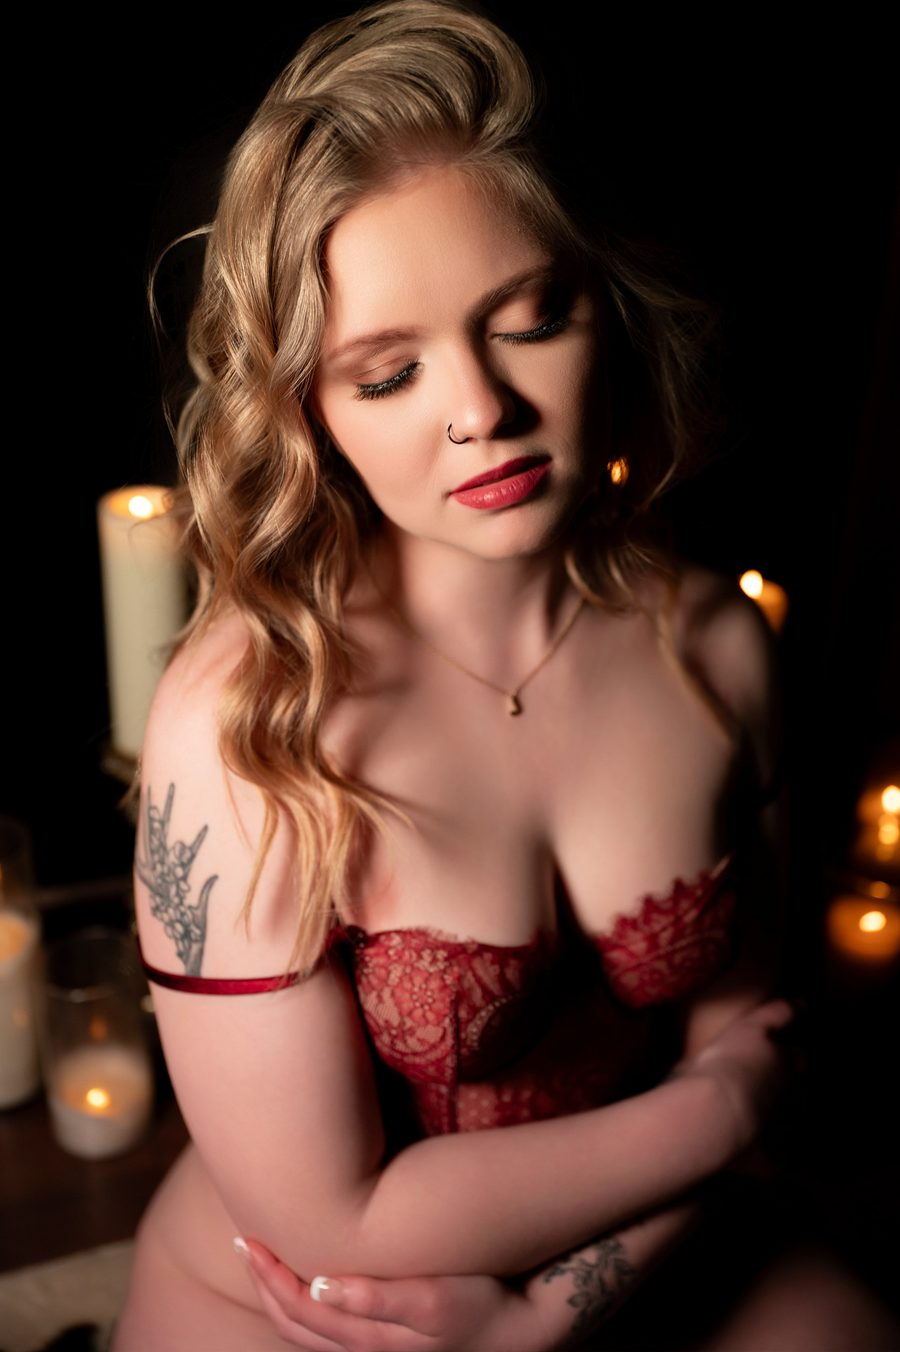
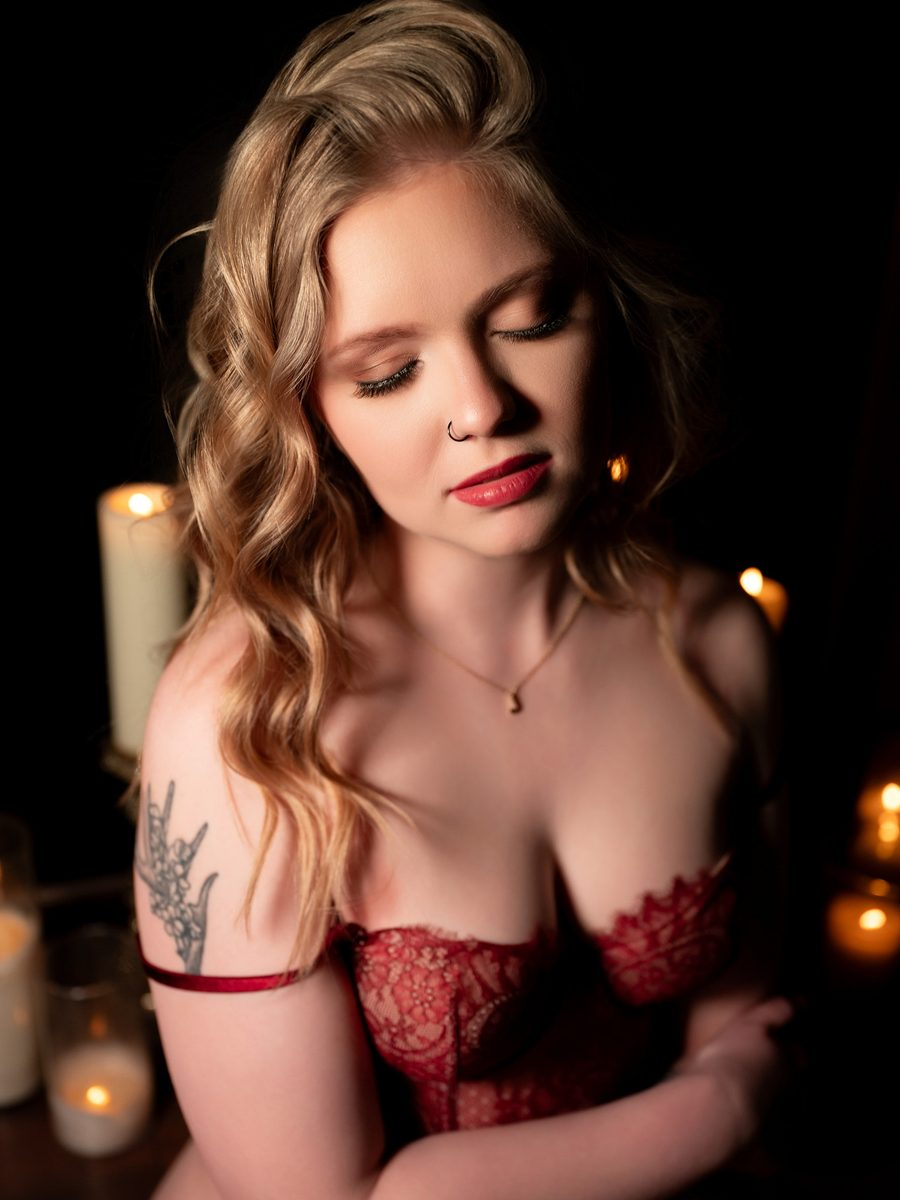
Match sizes, and rework two lines of copy
Five changes from Jessica.

Before/after now share a shape: both cropped to 3:4 at 900x1200. This
is the one place on the page where cropping is correct -- a before and
an after only read as a comparison when the frames match, and different
shapes make the eye compare the boxes instead of the woman.

Review cards are equal height. The quote area stretches to the longest
of the three rather than each card ending where its text does.

Hero headline holds two lines. Type sized so "Central Missouri's
Premier" does not wrap on its own, with the break before "Boudoir
Studio".

"Howdy, I'm Jess" becomes "Hello, I'm Jessica". The About page wording
is warm but reads folksy against Cormorant Garamond and antique gold.
Kit offers the more editorial alternate: the name alone as the heading,
with the eyebrow doing the introducing.

New empowering line: "There is a version of you that you have never
been shown. She has been there the whole time." The old one listed what
the reader is not -- not fifteen pounds from now, not once everything
settles down -- which argues with her. This offers her something
instead, and it sits better in a serif at size.

Claude-Session: https://claude.ai/code/session_01WUSgWYuPdNHtkfGKppnMt9

diff --git a/showit-revamp-kit.html b/showit-revamp-kit.html
@@ -309,7 +309,7 @@ Book a Call</div>
         <div class="paste">
           <div class="ph"><span class="loc">intro<span class="arrow">→</span>headline</span><button class="btn" type="button">Copy</button></div>
           <div class="pb"><span class="hd">Central Missouri&rsquo;s Premier Boudoir Studio</span></div>
-          <p class="note">Sits on the photo, bottom-left, over a scrim rising from the base — not centred, because the subject is centre-left and type on a body reads as an accident.</p>
+          <p class="note">Sits on the photo, bottom-left, over a scrim rising from the base. Not centred: the subject is centre-left and type on a body reads as an accident. <b>Set it on two lines</b> — &ldquo;Central Missouri&rsquo;s Premier&rdquo; over &ldquo;Boudoir Studio&rdquo; — with the type sized so neither line wraps on its own.</p>
         </div>
 
         <div class="paste">
@@ -335,8 +335,8 @@ DSC_0475-BW.jpg</div>
 
         <div class="paste">
           <div class="ph"><span class="loc">imagery<span class="arrow">→</span>the line</span><button class="btn" type="button">Copy</button></div>
-          <div class="pb">You are allowed to be seen exactly as you are today. Not fifteen pounds from now. Not once everything settles down.</div>
-          <p class="note">One sentence, centred under the photos, set large in Cormorant. Two alternates if this one isn’t yours: <em>&ldquo;You have spent years being the one holding the camera.&rdquo;</em> · <em>&ldquo;Nobody is coming to tell you you’ve earned this. Consider this the permission slip.&rdquo;</em></p>
+          <div class="pb">There is a version of you that you have never been shown. She has been there the whole time.</div>
+          <p class="note">Set large in Cormorant, centred under the photographs. The previous draft listed what you are not (&ldquo;not fifteen pounds from now&rdquo;), which argues with the reader. This one offers her something instead, and it suits the palette. <b>Two alternates:</b> <em>&ldquo;You have spent years on the other side of the camera. This time, stand in front of it.&rdquo;</em> · <em>&ldquo;Beautiful is not something you earn. It is something you have been carrying.&rdquo;</em></p>
         </div>
 
         <h3>4 &middot; Jess &middot; block <code>welcome</code></h3>
@@ -353,8 +353,8 @@ DSC_0475-BW.jpg</div>
 
         <div class="paste">
           <div class="ph"><span class="loc">welcome<span class="arrow">→</span>heading</span><button class="btn" type="button">Copy</button></div>
-          <div class="pb"><span class="hd">Howdy, I&rsquo;m Jess</span></div>
-          <p class="note">Straight off your About page. It is already the best line on your site — don’t improve it.</p>
+          <div class="pb"><span class="hd">Hello, I&rsquo;m Jessica</span></div>
+          <p class="note">Your About page says &ldquo;Howdy, I&rsquo;m Jess!&rdquo;, which is warm but reads folksy against Cormorant Garamond and antique gold. The full name is the more elegant register. <b>A more editorial alternate:</b> drop the greeting and set <em>Jessica Haslag</em> alone as the heading, with the eyebrow doing the introducing. Name-as-headline is a luxury convention and it would suit this palette.</p>
         </div>
 
         <div class="paste">
@@ -388,7 +388,7 @@ DSC_0475-BW.jpg</div>
         <div class="paste">
           <div class="ph"><span class="loc">before-and-after<span class="arrow">→</span>mission copy</span><button class="btn" type="button">Copy</button></div>
           <div class="pb">Nearly everyone arrives certain they aren&rsquo;t photogenic. Our mission is to hand you the evidence that you always were. Hair and makeup, a professionally guided session, and a one-on-one reveal where the two of us sit down and go through every image together.</div>
-          <p class="note">Carries the mission without needing a separate block, and earns it off the images either side. Your Briana and Taylor pairs go directly underneath.</p>
+          <p class="note">Carries the mission without needing a separate block, and earns it off the images either side. <b>Crop the pair to one shared shape</b> — 3:4 for both. This is the one place cropping is right: a before and after only reads as a comparison when the two frames match, and different shapes make the eye compare the boxes instead of the woman.</p>
         </div>
 
         <h3>6 &middot; Three Google reviews &middot; new block</h3>
@@ -429,7 +429,7 @@ DSC_0630-BW.jpg</div>
           <div class="pb">Miss ___.
 Miss ___.
 Miss ___.</div>
-          <p class="note"><b>The one thing still missing.</b> Tell me the first initial for each and I will fill them in. Initial only, never the full name Google shows: these are boudoir clients, and their reviews are public under their real names whether they thought about that or not.</p>
+          <p class="note">Set the three cards to <b>equal height</b>, with the photograph fixed at the top and the quote area stretching to match the longest. The quotes differ in length and ragged cards read as a mistake. <b>Still missing:</b> tell me the first initial for each and I will fill them in. Initial only, never the full name Google shows: these are boudoir clients, and their reviews are public under their real names whether they thought about that or not.</p>
         </div>
 
         <div class="paste">

diff --git a/dark-studio-identity.html b/dark-studio-identity.html
@@ -147,10 +147,12 @@
   .mk-empower{font-family:var(--serif); font-weight:400; font-size:clamp(21px,3.2vw,29px);
     line-height:1.5; color:var(--ink); max-width:26ch; margin:0 auto; text-align:center}
   .mk-empower .hi{color:var(--gold-bright)}
-  .mk-rev{display:grid; grid-template-columns:repeat(3,1fr); gap:18px; max-width:980px; margin:26px auto 0; align-items:start}
+  .mk-rev{display:grid; grid-template-columns:repeat(3,1fr); gap:18px; max-width:980px; margin:26px auto 0; align-items:stretch}
   @media (max-width:760px){ .mk-rev{grid-template-columns:1fr} }
-  .mk-rev article{background:var(--surface); border:1px solid var(--line-soft); border-radius:3px; overflow:hidden}
-  .mk-rev .rv{padding:18px 18px 20px}
+  .mk-rev article{background:var(--surface); border:1px solid var(--line-soft); border-radius:3px;
+    overflow:hidden; display:flex; flex-direction:column}
+  .mk-rev .rv{padding:18px 18px 20px; flex:1; display:flex; flex-direction:column}
+  .mk-rev .qt{flex:1}
   .mk-rev .stars{color:var(--gold); font-size:12px; letter-spacing:.24em; margin:0 0 10px}
   .mk-rev .qt{font-family:var(--serif); font-style:italic; font-size:15.5px; line-height:1.6; color:var(--muted); margin:0 0 12px}
   .mk-rev .qt.slot{font-family:var(--mono); font-style:normal; font-size:10.5px; letter-spacing:.12em;
@@ -193,9 +195,9 @@
       linear-gradient(0deg, rgba(19,16,14,.95) 0%, rgba(19,16,14,.82) 22%,
         rgba(19,16,14,.42) 48%, rgba(19,16,14,.08) 80%),
       linear-gradient(90deg, rgba(19,16,14,.55) 0%, rgba(19,16,14,.12) 45%, rgba(19,16,14,0) 70%)}
-  .mk-hero .over > *{max-width:20ch}
+  .mk-hero .over > *{max-width:none}
   .mk-hero .eb{font-family:var(--sans); font-size:9.5px; letter-spacing:.3em; text-transform:uppercase; color:var(--gold)}
-  .mk-hero .ttl{font-family:var(--serif); font-weight:500; font-size:clamp(32px,6.4vw,62px); line-height:1.03; margin:0; letter-spacing:.01em}
+  .mk-hero .ttl{font-family:var(--serif); font-weight:500; font-size:clamp(27px,5.1vw,56px); line-height:1.06; margin:0; letter-spacing:.01em; text-wrap:nowrap}
   .mk-sec{padding:48px 30px; border-bottom:1px solid var(--line-soft)}
   @media (max-width:620px){ .mk-sec{padding:34px 18px} }
   .mk-two{display:grid; grid-template-columns:1fr 1fr; gap:30px; align-items:start; max-width:880px; margin:0 auto}
@@ -215,7 +217,7 @@
     width:7px; height:1px; background:var(--gold)}
   .mk-band{background:var(--surface); padding:52px 30px; text-align:center; border-bottom:1px solid var(--line-soft)}
   .mk-band .mk-h{margin-bottom:8px}
-  .mk-ba{display:grid; grid-template-columns:1fr 1fr; gap:14px; max-width:680px; margin:22px auto 0; align-items:start}
+  .mk-ba{display:grid; grid-template-columns:1fr 1fr; gap:14px; max-width:680px; margin:22px auto 0; align-items:stretch}
   .mk-ba .shotbox{border:1px solid var(--line-soft)}
   .mk-foot{padding:30px; text-align:center}
   .mk-foot .fl{display:flex; gap:20px; justify-content:center; flex-wrap:wrap; margin-bottom:14px}
@@ -421,7 +423,7 @@
             <div class="shotbox"><img class="shot" src="assets/empower-2.jpg" alt="Boudoir portrait by JHP Boudoir"></div>
             <div class="shotbox"><img class="shot" src="assets/empower-3.jpg" alt="Boudoir portrait by JHP Boudoir"></div>
           </div>
-          <p class="mk-empower" style="margin-top:30px">You are allowed to be seen exactly as you are <span class="hi">today</span>. Not fifteen pounds from now. Not once everything settles down.</p>
+          <p class="mk-empower" style="margin-top:30px">There is a version of you that you have <span class="hi">never been shown</span>. She has been there the whole time.</p>
         </div>
 
         <div class="mk-sec">
@@ -429,7 +431,7 @@
             <div class="shotbox"><img class="shot" src="assets/jess.jpg" alt="Jessica Haslag, boudoir photographer, holding her camera"></div>
             <div>
               <p class="mk-kicker">Meet your photographer</p>
-              <h3 class="mk-h" style="color:var(--ink); margin-top:0">Howdy, I&rsquo;m Jess</h3>
+              <h3 class="mk-h" style="color:var(--ink); margin-top:0">Hello, I&rsquo;m Jessica</h3>
               <p class="mk-p">I was a social worker before I was a boudoir photographer. Years of sitting with people on the hardest day of their life taught me the thing that turned out to matter more than any camera setting: how to make a person feel safe in a room.</p>
               <p class="mk-p" style="margin-bottom:18px">I went into social work because I wanted to help people. I still do. It just looks nothing like what I pictured back then. Nobody warned me that the most useful thing I&rsquo;d ever hand a woman would be a photograph of herself, and I wouldn&rsquo;t trade it for the world.</p>
               <button class="b-secondary" type="button">More about me</button>
